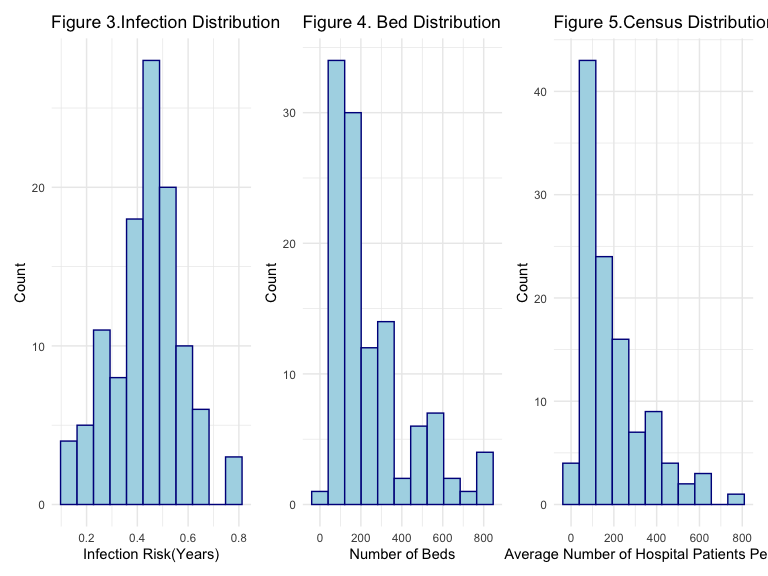
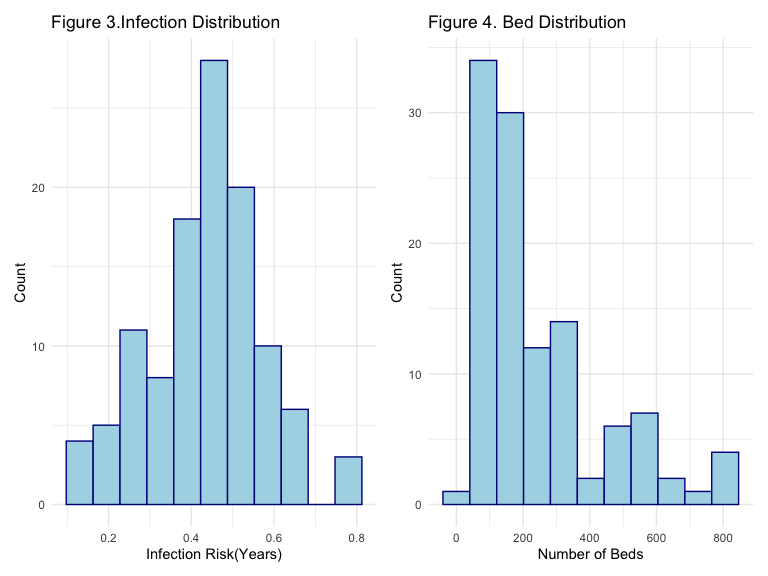
Contrast update

diff --git a/Final-draft.md b/Final-draft.md
@@ -127,10 +127,16 @@ histogram_age+histogram_length
 <img src="Final-draft_files/figure-gfm/histograms 1-1.png" width="90%" />
 
 ``` r
-histogram_risk+histogram_beds+histogram_census
+histogram_risk+histogram_beds
 ```
 
 <img src="Final-draft_files/figure-gfm/histograms 1-2.png" width="90%" />
+
+``` r
+histogram_census
+```
+
+<img src="Final-draft_files/figure-gfm/histograms 1-3.png" width="90%" />
 
 \#2\_Correlations
 -<https://statsandr.com/blog/correlation-coefficient-and-correlation-test-in-r/>
@@ -200,9 +206,22 @@ knitr::kable(digits=3)
 | region    |   3 | 103.554 | 34.518 |    12.309 |       0 |
 | Residuals | 109 | 305.656 |  2.804 |        NA |      NA |
 
-## Regression \#3
+``` r
+TukeyHSD(one.way) %>% 
+    broom::tidy()%>% 
+knitr::kable(digits=3)
+```
 
-# Using gml or lm?
+| term   | contrast | null.value | estimate | conf.low | conf.high | adj.p.value |
+| :----- | :------- | ---------: | -------: | -------: | --------: | ----------: |
+| region | 2-1      |          0 |  \-1.405 |  \-2.536 |   \-0.275 |       0.008 |
+| region | 3-1      |          0 |  \-1.898 |  \-2.992 |   \-0.803 |       0.000 |
+| region | 4-1      |          0 |  \-2.975 |  \-4.344 |   \-1.606 |       0.000 |
+| region | 3-2      |          0 |  \-0.492 |  \-1.547 |     0.563 |       0.617 |
+| region | 4-2      |          0 |  \-1.570 |  \-2.907 |   \-0.232 |       0.015 |
+| region | 4-3      |          0 |  \-1.078 |  \-2.385 |     0.230 |       0.144 |
+
+## Regression \#3
 
 ``` r
 linearmod = lm(length ~ age , data=senic_data)  # build linear regression model on full data
